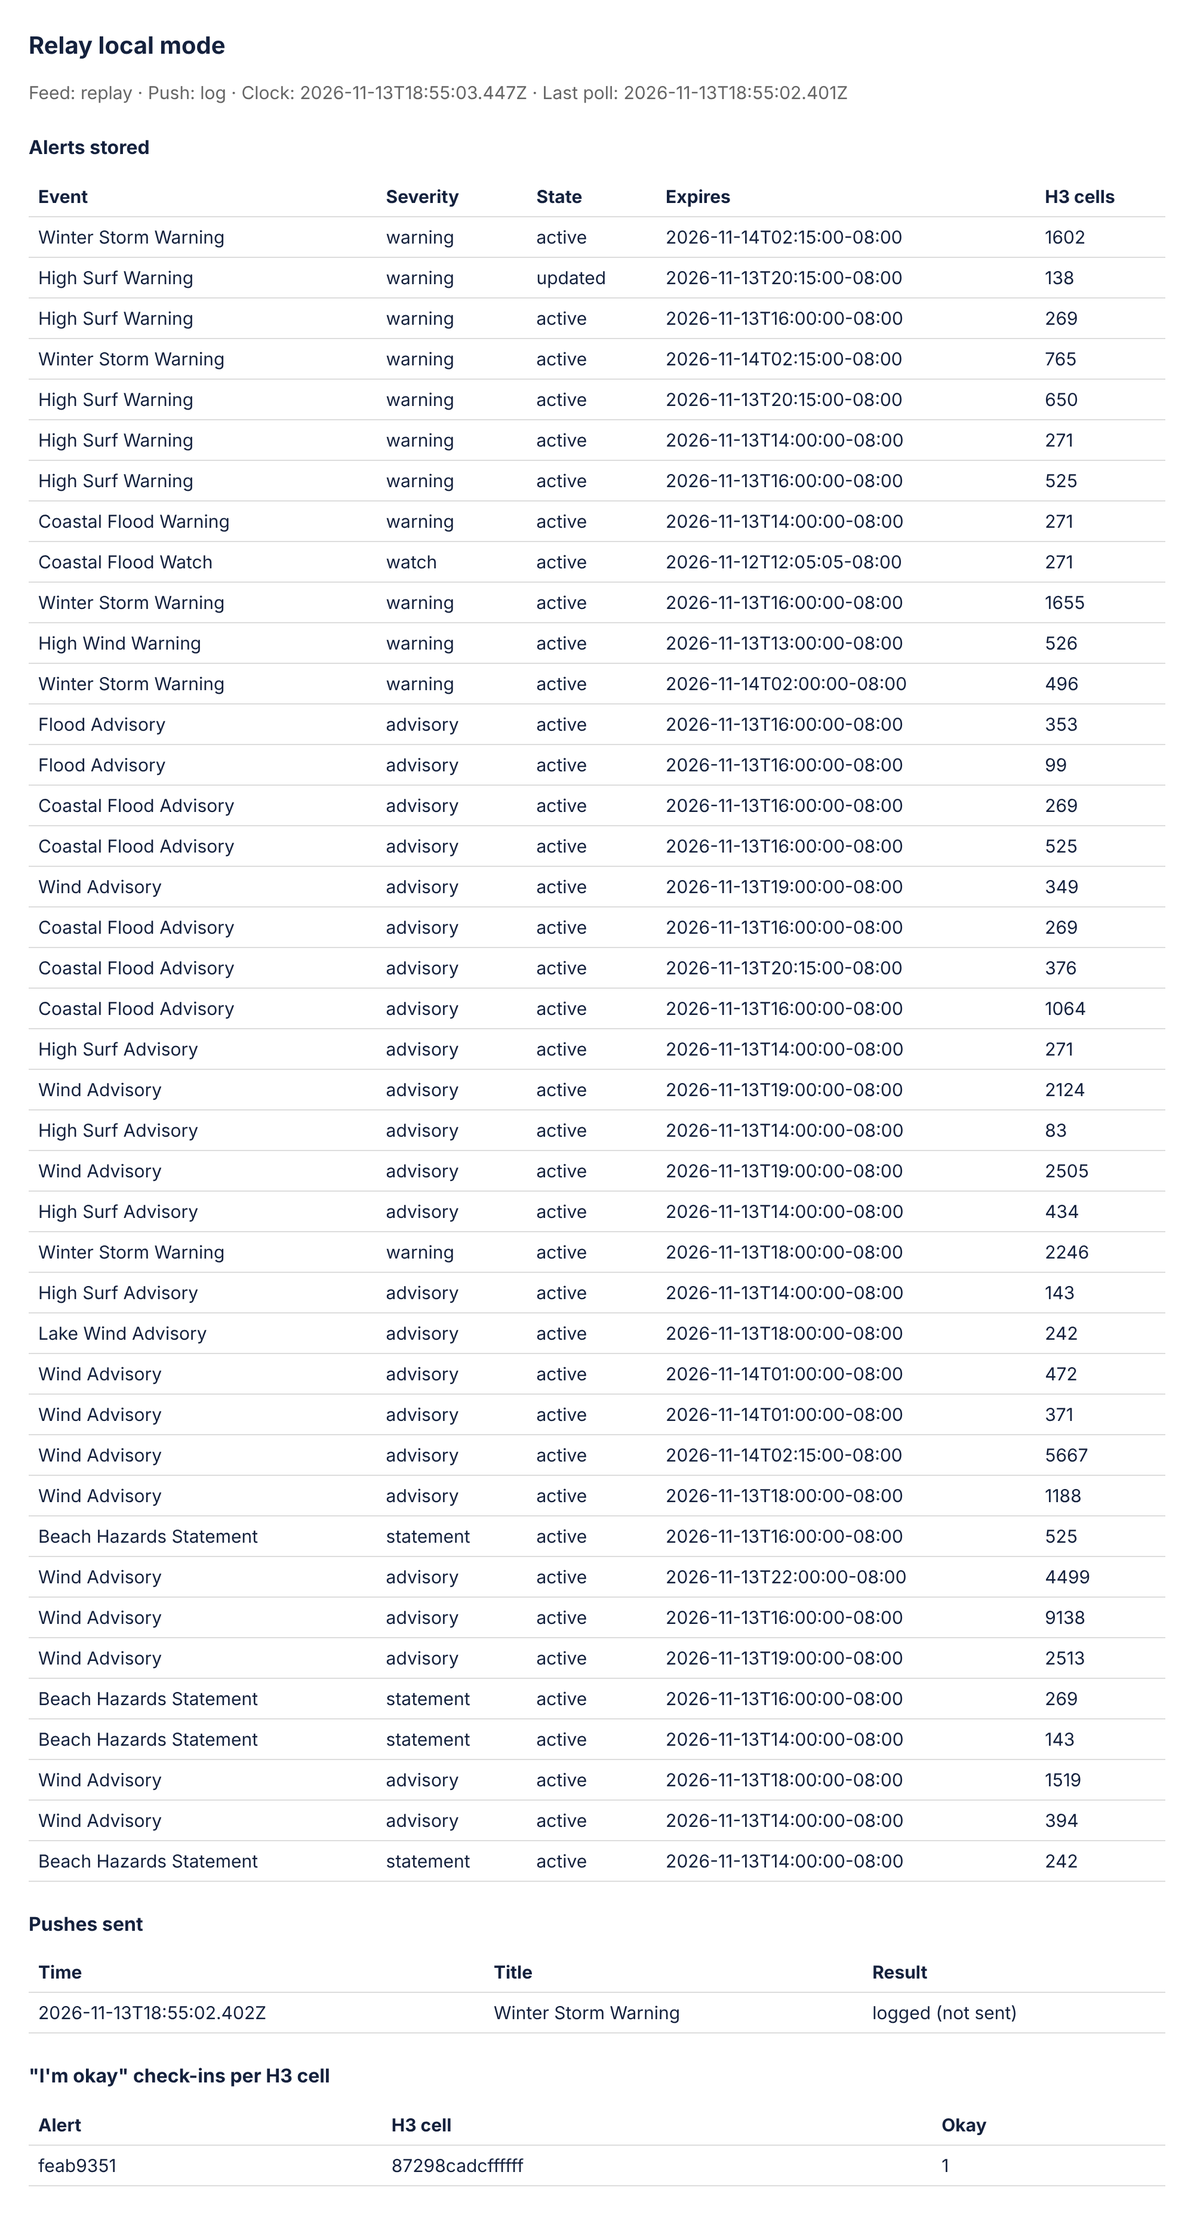
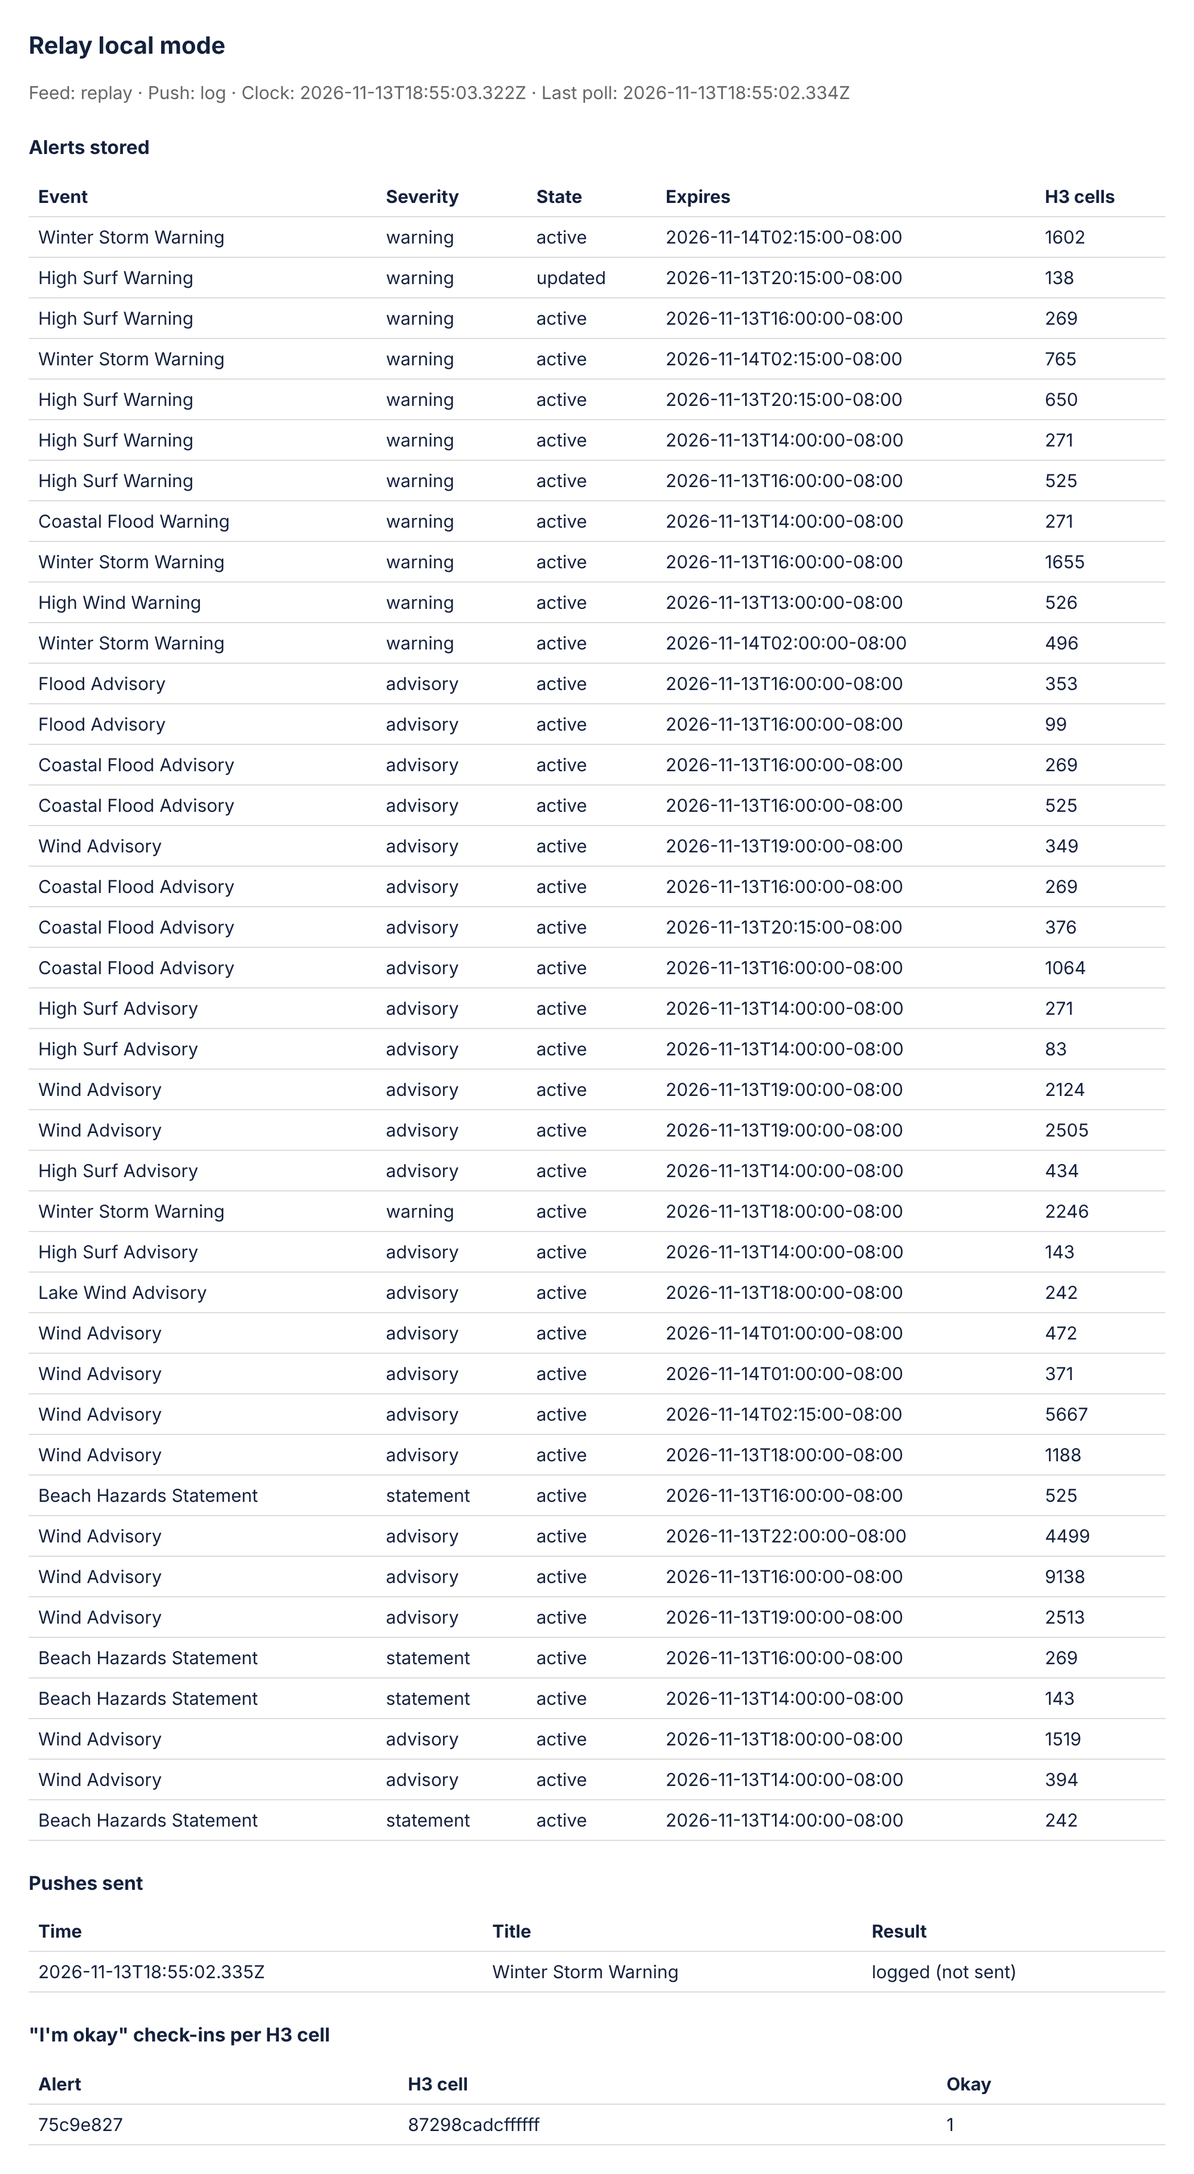
Never push NWS notices with urgency Past; they end when their message expires
Found in the recorded Nov 13 feed: NWS listed a Coastal Flood Watch as "has
been replaced" with urgency Past, a message expiry the day before, and the
hazard's later ends. Relay kept alerts active until the later of expires and
ends, so it would have pushed the replaced watch.

- shared: alertEndsAtMs, the one end-time rule (an urgency-Past message ignores ends)
- refusalFor: urgency Past is refused as no_action in every send path
- lifecycle, poll reconciliation, publisher, memory and Postgres stores use the rule
- tests: shared rule, planner, worker, Postgres SQL, and the real recording

Claude-Session: https://claude.ai/code/session_01Ct4kD6w58MH9cesVHTtNyJ

diff --git a/backend/test/local/local-mode.test.ts b/backend/test/local/local-mode.test.ts
@@ -1,6 +1,6 @@
 import { randomUUID } from 'node:crypto';
-import { existsSync, readdirSync } from 'node:fs';
-import { cellToParent, latLngToCell } from 'h3-js';
+import { existsSync, readdirSync, readFileSync } from 'node:fs';
+import { cellToLatLng, cellToParent, latLngToCell } from 'h3-js';
 import type { AddressInfo } from 'node:net';
 import { join } from 'node:path';
 import { afterEach, describe, expect, it } from 'vitest';
@@ -181,5 +181,56 @@ describe.skipIf(RECORDINGS.length === 0)('local mode: recorded NWS responses', (
     expect(counts.errors).toBe(0);
     expect(counts.unknownZones).toBe(0);
     expect(counts.fetchFailed).toBe(0);
+  });
+});
+
+// The real case behind the urgency-Past rule: in the Nov 13 2026 recording, NWS lists a Coastal
+// Flood Watch for the San Luis Obispo / Santa Barbara beaches as "has been replaced". Its message
+// expired the day before, but it still carries the hazard's later `ends`.
+const NOV13 = 'recorded-2026-11-13T19-02-22-521Z.json';
+describe.skipIf(!RECORDINGS.includes(NOV13))('local mode: replaced NWS notices', () => {
+  it('a replaced watch is not active and is never pushed, even to a phone inside it', async () => {
+    const replayFile = join(REPLAY_DIR, NOV13);
+    const relay = createLocalRelay({
+      feed: 'replay',
+      push: 'log',
+      replayFile,
+      replayZonesFile: replayFile.replace(/\.json$/, '.zones.json'),
+    });
+    await relay.pollAndDeliver();
+    const feed = JSON.parse(readFileSync(replayFile, 'utf8')) as {
+      features: Array<{ properties: { id: string; event: string } }>;
+    };
+    const sourceId = feed.features.find((f) => f.properties.event === 'Coastal Flood Watch')
+      ?.properties.id;
+    const watch = await relay.stores.alerts.findBySourceId(sourceId ?? '');
+    expect(watch?.urgency).toBe('Past');
+    const active = await relay.stores.alerts.listActiveBySource('nws', relay.clock.now());
+    expect(active.map((a) => a.event)).not.toContain('Coastal Flood Watch');
+
+    // A phone at those beaches still gets the live warnings there, but not the replaced watch.
+    const cell = watch!.area.h3Cells[0]!;
+    const [latitude, longitude] = cellToLatLng(cell);
+    const call = async (method: string, path: string, body: unknown, credential?: string) => {
+      const res = await relay.handle({
+        rawPath: path,
+        headers: credential ? { authorization: `Bearer ${credential}` } : {},
+        body: JSON.stringify(body),
+        requestContext: { http: { method } },
+      });
+      expect(res.statusCode, res.body).toBeLessThan(300);
+      return JSON.parse(res.body || '{}') as Record<string, string>;
+    };
+    const device = await call('POST', '/devices', {});
+    const token = 'ExponentPushToken[slo-beach]';
+    await call(
+      'PUT',
+      '/devices/me/push-token',
+      { expoPushToken: token, language: 'en' },
+      device['credential'],
+    );
+    await call('POST', '/places', { label: 'Beach', latitude, longitude }, device['credential']);
+    const titles = relay.sentMessages.filter((m) => m.to === token).map((m) => m.title);
+    expect(titles).not.toContain('Coastal Flood Watch');
   });
 });

diff --git a/backend/src/adapters/postgres/alert-store.ts b/backend/src/adapters/postgres/alert-store.ts
@@ -18,6 +18,13 @@ export const MAX_SAVE_PARAM_BYTES = 60_000;
 const H3_INDEX = /^[0-9a-f]{15}$/;
 
 /**
+ * SQL for when an alert ends: the later of expires and ends (GREATEST ignores a null ends), except
+ * an urgency-Past message, which ends at its own expires. Same rule as alertEndsAtMs in shared.
+ */
+const END_AT = `GREATEST(a.expires, CASE WHEN a.record ->> 'urgency' = 'Past' THEN NULL
+  ELSE (a.record ->> 'ends')::timestamptz END)`;
+
+/**
  * Cells as one compact string. An H3 res-7 index is 15 hex digits; as raw bytes in base64
  * it takes about 11 characters instead of 18 in a JSON array. Anything that is not a plain
  * H3 index falls back to a JSON array (only test data does that).
@@ -181,13 +188,13 @@ export class PostgresAlertStore implements AlertStore {
   async listActiveForCells(cells: string[], now: Date): Promise<Alert[]> {
     const found = new Map<string, Alert>();
     for (const part of chunk([...new Set(cells)], CELL_CHUNK)) {
-      // An alert has ended once now is past the later of expires and ends (GREATEST
-      // ignores a null ends). The cell filter is served by the alert_cells index.
+      // An alert has ended once now is past END_AT. The cell filter is served by the
+      // alert_cells index.
       const rows = await this.db.query<RecordRow>(
         `SELECT DISTINCT a.id, a.record FROM alerts a
            JOIN alert_cells c ON c.alert_id = a.id
           WHERE a.state IN ('active', 'updated') AND c.h3_cell = ANY(${textArrayParam(1)})
-            AND $2::timestamptz < GREATEST(a.expires, (a.record ->> 'ends')::timestamptz)`,
+            AND $2::timestamptz < ${END_AT}`,
         [JSON.stringify(part), now.toISOString()],
       );
       for (const row of rows) {
@@ -206,7 +213,7 @@ export class PostgresAlertStore implements AlertStore {
     const rows = await this.db.query<RecordRow>(
       `SELECT a.id, a.record FROM alerts a
         WHERE a.state IN ('active', 'updated') AND a.record ->> 'source' = $1
-          AND $2::timestamptz < GREATEST(a.expires, (a.record ->> 'ends')::timestamptz)`,
+          AND $2::timestamptz < ${END_AT}`,
       [source, now.toISOString()],
     );
     const out: Alert[] = [];
@@ -222,7 +229,7 @@ export class PostgresAlertStore implements AlertStore {
     const rows = await this.db.query<RecordRow>(
       `SELECT a.id, a.record FROM alerts a
         WHERE a.state = 'cancelled' AND a.record ->> 'source' = $1
-          AND $2::timestamptz < GREATEST(a.expires, (a.record ->> 'ends')::timestamptz)`,
+          AND $2::timestamptz < ${END_AT}`,
       [source, now.toISOString()],
     );
     const out: Alert[] = [];

diff --git a/backend/src/adapters/memory/alert-store.ts b/backend/src/adapters/memory/alert-store.ts
@@ -1,4 +1,4 @@
-import type { Alert } from '@relay/shared';
+import { alertEndsAtMs, type Alert } from '@relay/shared';
 import type { AlertStore } from '../../ports.js';
 
 /** In-memory AlertStore for tests and local runs. Stores copies so callers can't mutate it. */
@@ -44,7 +44,7 @@ export class InMemoryAlertStore implements AlertStore {
 
   async listActiveForCells(cells: string[], now: Date): Promise<Alert[]> {
     const wanted = new Set(cells);
-    const endsAt = (a: Alert) => Math.max(Date.parse(a.expires), a.ends ? Date.parse(a.ends) : 0);
+    const endsAt = (a: Alert) => alertEndsAtMs(a);
     return [...this.alerts.values()]
       .filter((a) => a.state === 'active' || a.state === 'updated')
       .filter((a) => endsAt(a) > now.getTime())
@@ -54,7 +54,7 @@ export class InMemoryAlertStore implements AlertStore {
 
   /** Every active or updated alert of one source that has not ended yet (feed reconciliation). */
   async listActiveBySource(source: Alert['source'], now: Date): Promise<Alert[]> {
-    const endsAt = (a: Alert) => Math.max(Date.parse(a.expires), a.ends ? Date.parse(a.ends) : 0);
+    const endsAt = (a: Alert) => alertEndsAtMs(a);
     return [...this.alerts.values()]
       .filter((a) => a.source === source && (a.state === 'active' || a.state === 'updated'))
       .filter((a) => endsAt(a) > now.getTime())
@@ -63,7 +63,7 @@ export class InMemoryAlertStore implements AlertStore {
 
   /** Cancelled alerts of one source whose end is still in the future (feed restoration). */
   async listCancelledBySource(source: Alert['source'], now: Date): Promise<Alert[]> {
-    const endsAt = (a: Alert) => Math.max(Date.parse(a.expires), a.ends ? Date.parse(a.ends) : 0);
+    const endsAt = (a: Alert) => alertEndsAtMs(a);
     return [...this.alerts.values()]
       .filter((a) => a.source === source && a.state === 'cancelled')
       .filter((a) => endsAt(a) > now.getTime())

diff --git a/packages/shared/test/alert.test.ts b/packages/shared/test/alert.test.ts
@@ -1,5 +1,5 @@
 import { describe, expect, it } from 'vitest';
-import { AlertSchema, H3_RESOLUTION, relaySeverityFor } from '../src/index.js';
+import { AlertSchema, H3_RESOLUTION, alertEndsAtMs, relaySeverityFor } from '../src/index.js';
 import { validAlert } from './fixtures.js';
 
 describe('AlertSchema', () => {
@@ -66,5 +66,32 @@ describe('relaySeverityFor', () => {
 describe('H3_RESOLUTION', () => {
   it('is 7', () => {
     expect(H3_RESOLUTION).toBe(7);
+  });
+});
+
+describe('alertEndsAtMs', () => {
+  const at = (iso: string) => Date.parse(iso);
+  const base = { expires: '2026-01-02T09:00:00.000Z', ends: null, urgency: 'Expected' as const };
+
+  it('is expires when there is no ends', () => {
+    expect(alertEndsAtMs(base)).toBe(at(base.expires));
+  });
+
+  it('is the later of expires and ends', () => {
+    expect(alertEndsAtMs({ ...base, ends: '2026-01-02T12:00:00.000Z' })).toBe(
+      at('2026-01-02T12:00:00.000Z'),
+    );
+    expect(alertEndsAtMs({ ...base, ends: '2026-01-02T07:00:00.000Z' })).toBe(at(base.expires));
+  });
+
+  it('ignores ends for urgency Past (a replaced, cancelled or expiring notice)', () => {
+    expect(alertEndsAtMs({ ...base, urgency: 'Past', ends: '2026-01-04T12:00:00.000Z' })).toBe(
+      at(base.expires),
+    );
+  });
+
+  it('falls back to expires when ends does not parse, and is NaN when expires does not', () => {
+    expect(alertEndsAtMs({ ...base, ends: 'not a date' })).toBe(at(base.expires));
+    expect(alertEndsAtMs({ ...base, expires: 'nope' })).toBeNaN();
   });
 });

diff --git a/backend/src/delivery/eligibility.ts b/backend/src/delivery/eligibility.ts
@@ -1,15 +1,13 @@
-import type { Alert } from '@relay/shared';
+import { alertEndsAtMs, type Alert } from '@relay/shared';
 
 /** Why an alert may not be planned or sent. Checked in the planner AND again in the worker. */
-export type Refusal = 'unsigned' | 'not_actual' | 'inactive' | 'expired';
+export type Refusal = 'unsigned' | 'not_actual' | 'inactive' | 'expired' | 'no_action';
 
 const DAY_MS = 24 * 60 * 60 * 1000;
 
-/** The later of expires and ends: when the alert stops being relevant. */
+/** When the alert stops being relevant (see alertEndsAtMs in shared for the rule). */
 export function alertEndTime(alert: Alert): Date {
-  const expires = Date.parse(alert.expires);
-  const ends = alert.ends ? Date.parse(alert.ends) : Number.NaN;
-  return new Date(Math.max(expires, Number.isNaN(ends) ? 0 : ends));
+  return new Date(alertEndsAtMs(alert));
 }
 
 /**
@@ -25,6 +23,9 @@ export function refusalFor(
   if (!verifyAlert(alert)) return 'unsigned';
   if (alert.status !== 'Actual') return 'not_actual';
   if (alert.state !== 'active' && alert.state !== 'updated') return 'inactive';
+  // CAP urgency Past: "responsive action is no longer required" (a replaced, cancelled or
+  // expiring product). Never pushed, even while the message has not expired yet.
+  if (alert.urgency === 'Past') return 'no_action';
   // `!(a < b)` so an unparseable date (NaN) is refused too.
   if (!(now.getTime() < alertEndTime(alert).getTime())) return 'expired';
   return null;

diff --git a/backend/test/db/stores.test.ts b/backend/test/db/stores.test.ts
@@ -253,6 +253,17 @@ describe('PostgresAlertStore', () => {
     expect(await ids('2026-01-02T13:00:00.000Z')).toEqual([]);
   });
 
+  it('an urgency-Past message ends at its own expires, ignoring a later ends', async () => {
+    const store = new PostgresAlertStore(db);
+    // Shape of a real NWS "has been replaced" notice: message expired, hazard end still ahead.
+    await store.save(alert({ urgency: 'Past', ends: '2026-01-02T12:00:00.000Z' }));
+    const at = async (iso: string) =>
+      (await store.listActiveForCells(['872830828ffffff'], new Date(iso))).length;
+    expect(await at('2026-01-02T08:00:00.000Z')).toBe(1); // before expires (09:00Z)
+    expect(await at('2026-01-02T10:00:00.000Z')).toBe(0); // after expires, before ends
+    expect(await store.listActiveBySource('nws', new Date('2026-01-02T10:00:00.000Z'))).toEqual([]);
+  });
+
   it('round-trips cells (returned sorted), including an empty list, via alert_cells', async () => {
     const store = new PostgresAlertStore(db);
     const cells = manyCells(300);

diff --git a/backend/src/ingest/lifecycle.ts b/backend/src/ingest/lifecycle.ts
@@ -1,4 +1,4 @@
-import type { Alert } from '@relay/shared';
+import { alertEndsAtMs, type Alert } from '@relay/shared';
 import type { AlertStore, Clock } from '../ports.js';
 
 export type ApplyResult = {
@@ -18,12 +18,11 @@ export const endedWithoutCancel = (a: Alert): boolean =>
  * Current state of an alert at `now`. Stored state only says what the latest NWS
  * message was; expiry is time-based, so it is computed on read.
  * Expired once `expires` (or `ends`, if set and later) has passed, unless cancelled.
+ * An urgency-Past message ignores `ends` (see alertEndsAtMs).
  */
 export function effectiveState(alert: Alert, now: Date): Alert['state'] {
   if (alert.state === 'cancelled') return 'cancelled';
-  const times = [alert.expires, alert.ends].filter((t): t is string => t !== null);
-  const end = Math.max(...times.map((t) => Date.parse(t)));
-  return now.getTime() > end ? 'expired' : alert.state;
+  return now.getTime() > alertEndsAtMs(alert) ? 'expired' : alert.state;
 }
 
 const withoutPds = (a: Alert): Alert => {

diff --git a/packages/shared/src/alert.ts b/packages/shared/src/alert.ts
@@ -143,3 +143,18 @@ export function relaySeverityFor(
   }
   return 'statement';
 }
+
+/**
+ * When an alert stops being relevant, in epoch milliseconds: the later of `expires` (when this
+ * message expires) and `ends` (when the hazard ends). NaN when `expires` does not parse.
+ *
+ * Exception: CAP urgency "Past" means responsive action is no longer required. NWS sends it on
+ * messages that only say a product was replaced, cancelled or allowed to expire, often keeping
+ * the old `ends`. Such a message ends when the message itself expires.
+ */
+export function alertEndsAtMs(alert: Pick<Alert, 'expires' | 'ends' | 'urgency'>): number {
+  const expires = Date.parse(alert.expires);
+  if (alert.urgency === 'Past' || !alert.ends) return expires;
+  const ends = Date.parse(alert.ends);
+  return Number.isNaN(ends) ? expires : Math.max(expires, ends);
+}

diff --git a/backend/src/ingest/poll.ts b/backend/src/ingest/poll.ts
@@ -3,7 +3,7 @@
  * The normalizer, lifecycle (apply) and H3 matching are injected so this file stays small
  * and testable.
  */
-import type { Alert } from '@relay/shared';
+import { alertEndsAtMs, type Alert } from '@relay/shared';
 import type { RawArchive, SeenStore } from '../ports.js';
 import { InvalidGeometryError, TooManyCellsError } from '../geo/index.js';
 import type { NwsClient } from './nws-client.js';
@@ -156,8 +156,7 @@ export function expiredReferencesOf(body: string): Set<string> {
   return out;
 }
 
-const endOf = (a: Alert): number =>
-  Math.max(Date.parse(a.expires), a.ends ? Date.parse(a.ends) : 0);
+const endOf = (a: Alert): number => alertEndsAtMs(a);
 const idsOf = (a: Alert): string[] => [a.sourceId, ...a.references.map((r) => r.sourceId)];
 
 /**

diff --git a/backend/src/scale/publish/alert-publisher.ts b/backend/src/scale/publish/alert-publisher.ts
@@ -1,4 +1,4 @@
-import type { Alert } from '@relay/shared';
+import { alertEndsAtMs, type Alert } from '@relay/shared';
 import { cellToChildren, cellToParent } from 'h3-js';
 import { noopLogger, type Logger } from '../../delivery/types.js';
 import type { AlertStore } from '../../ports.js';
@@ -57,8 +57,7 @@ export function shardsOf(cells: readonly string[]): string[] {
 
 function isLive(a: Alert, now: Date): boolean {
   if (a.state !== 'active' && a.state !== 'updated') return false;
-  const endsAt = Math.max(Date.parse(a.expires), a.ends ? Date.parse(a.ends) : 0);
-  return endsAt > now.getTime();
+  return alertEndsAtMs(a) > now.getTime();
 }
 
 export function summarize(a: Alert): ActiveAlertSummary {

diff --git a/backend/src/scale/sender/sender.ts b/backend/src/scale/sender/sender.ts
@@ -275,6 +275,8 @@ export type BatchReason =
   | 'not_actual'
   | 'inactive'
   | 'expired'
+  /** CAP urgency Past: the message says no action is needed (replaced, cancelled, expiring). */
+  | 'no_action'
   | 'informational'
   | 'stale_severity'
   /** A follow-up for an alert version that is no longer current (or no longer in its state). */
@@ -816,6 +818,7 @@ export async function processBatch(
         reason === 'not_actual' ||
         reason === 'inactive' ||
         reason === 'expired' ||
+        reason === 'no_action' ||
         reason === 'stale_version';
       logger.error(final ? 'sender.alert_refused' : 'sender.alert_unavailable', {
         alertId: batch.alertId,

diff --git a/backend/test/delivery/plan-delivery.test.ts b/backend/test/delivery/plan-delivery.test.ts
@@ -94,6 +94,12 @@ describe('planDelivery', () => {
       ['cancelled', signed({ state: 'cancelled' }), 'inactive'],
       ['expired state', signed({ state: 'expired' }), 'inactive'],
       ['past expiry', signed({ expires: '2026-11-10T10:00:00Z' }), 'expired'],
+      ['urgency Past', signed({ urgency: 'Past' }), 'no_action'],
+      [
+        'replaced notice: Past, message expired, hazard end ahead',
+        signed({ urgency: 'Past', expires: '2026-11-10T10:00:00Z', ends: '2026-11-10T12:00:00Z' }),
+        'no_action',
+      ],
     ];
     for (const [name, alert, reason] of cases) {
       const r = await planDelivery(alert, deps);
